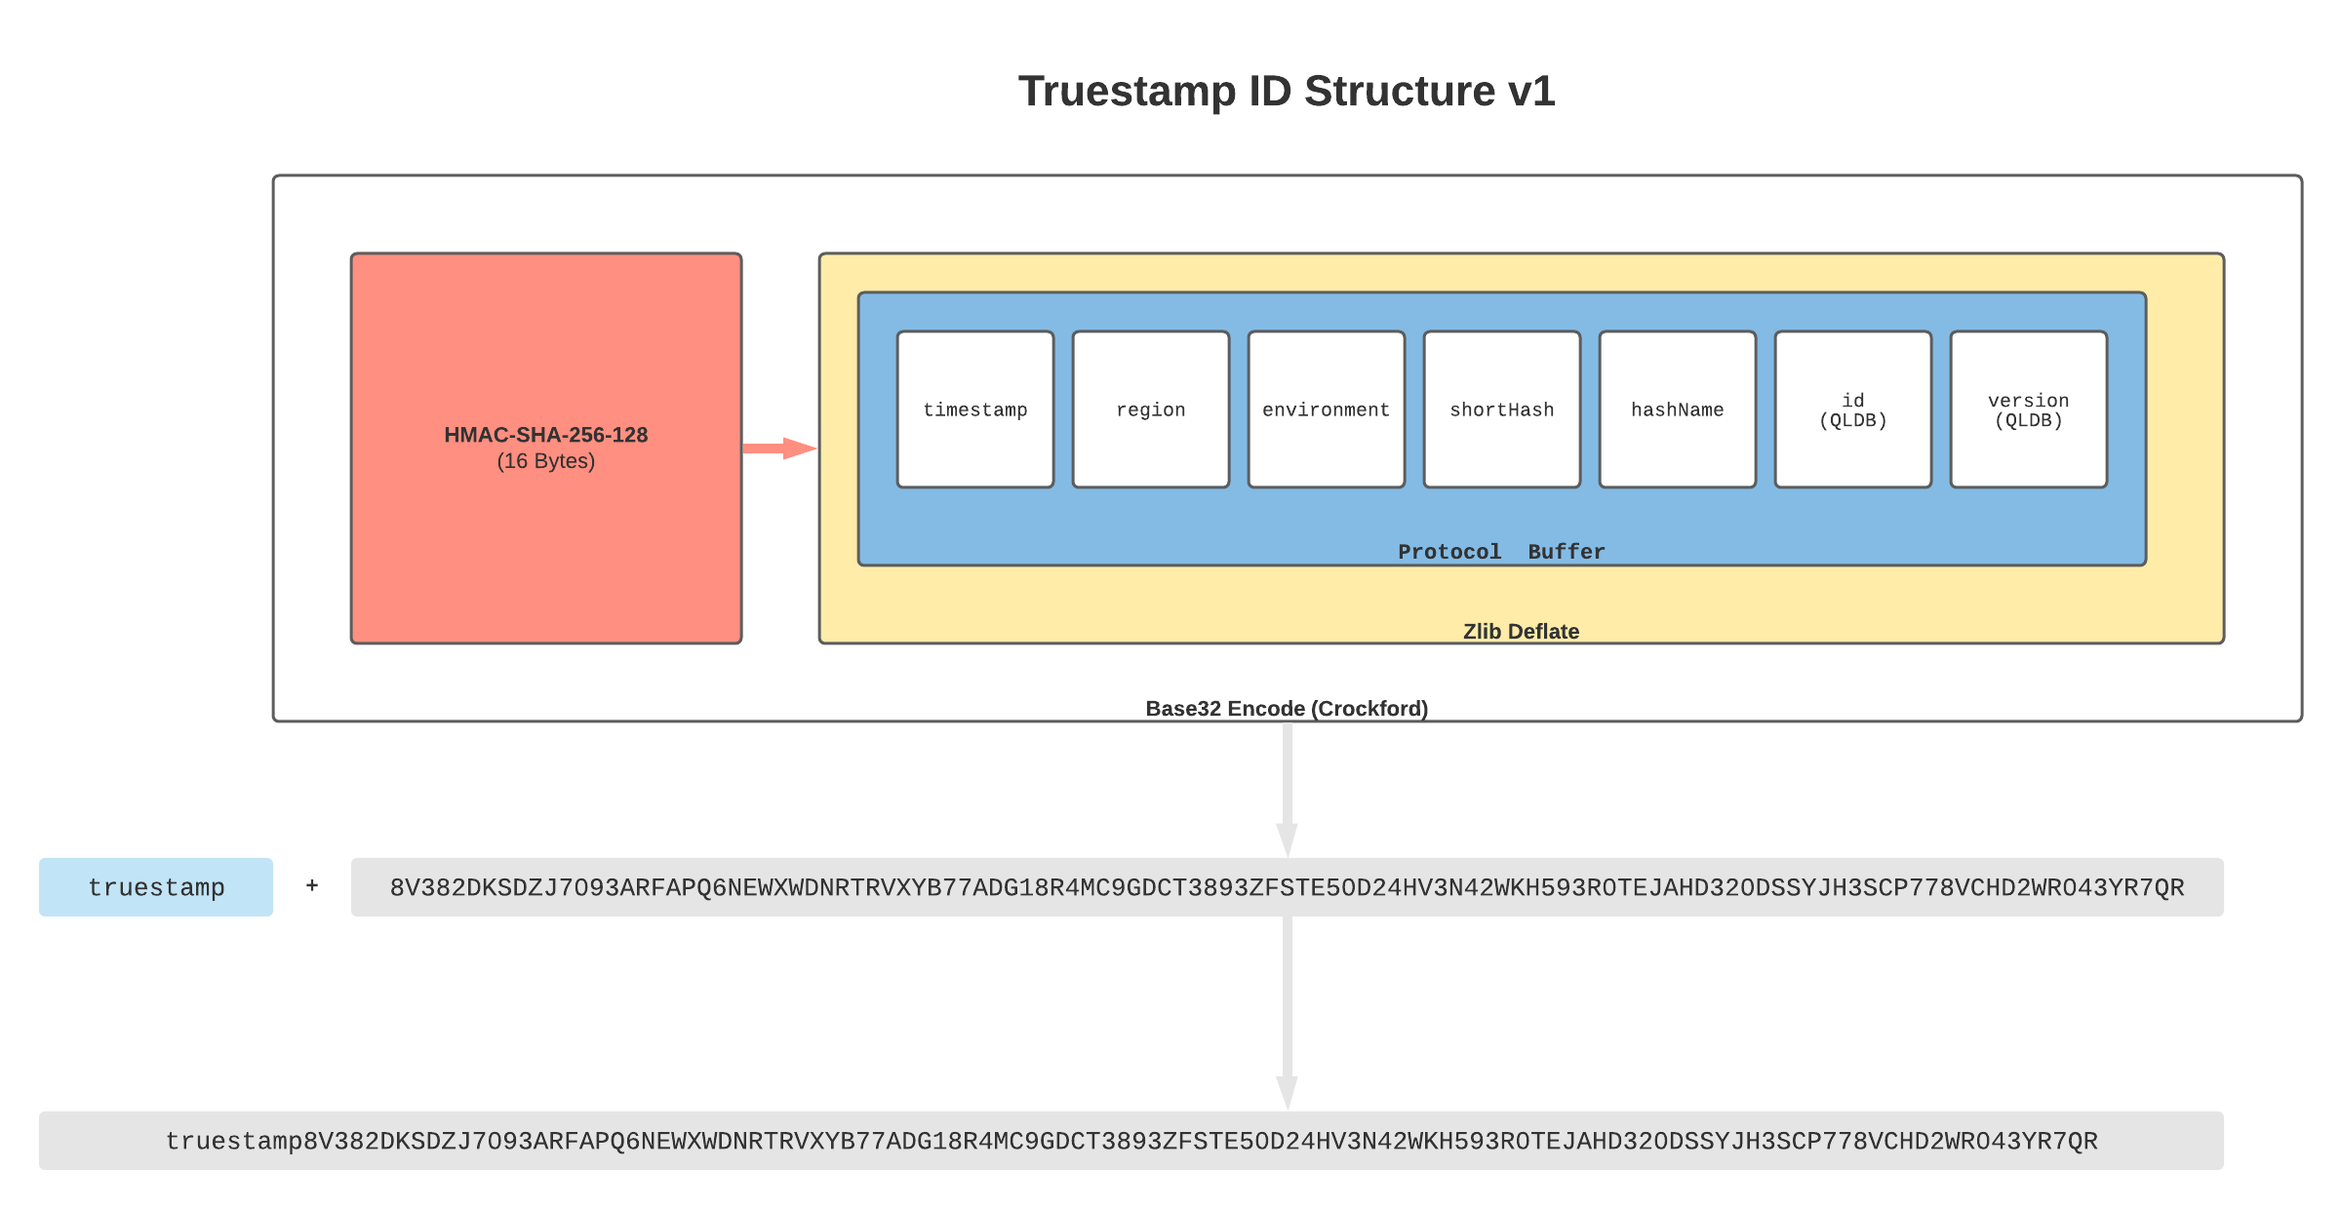
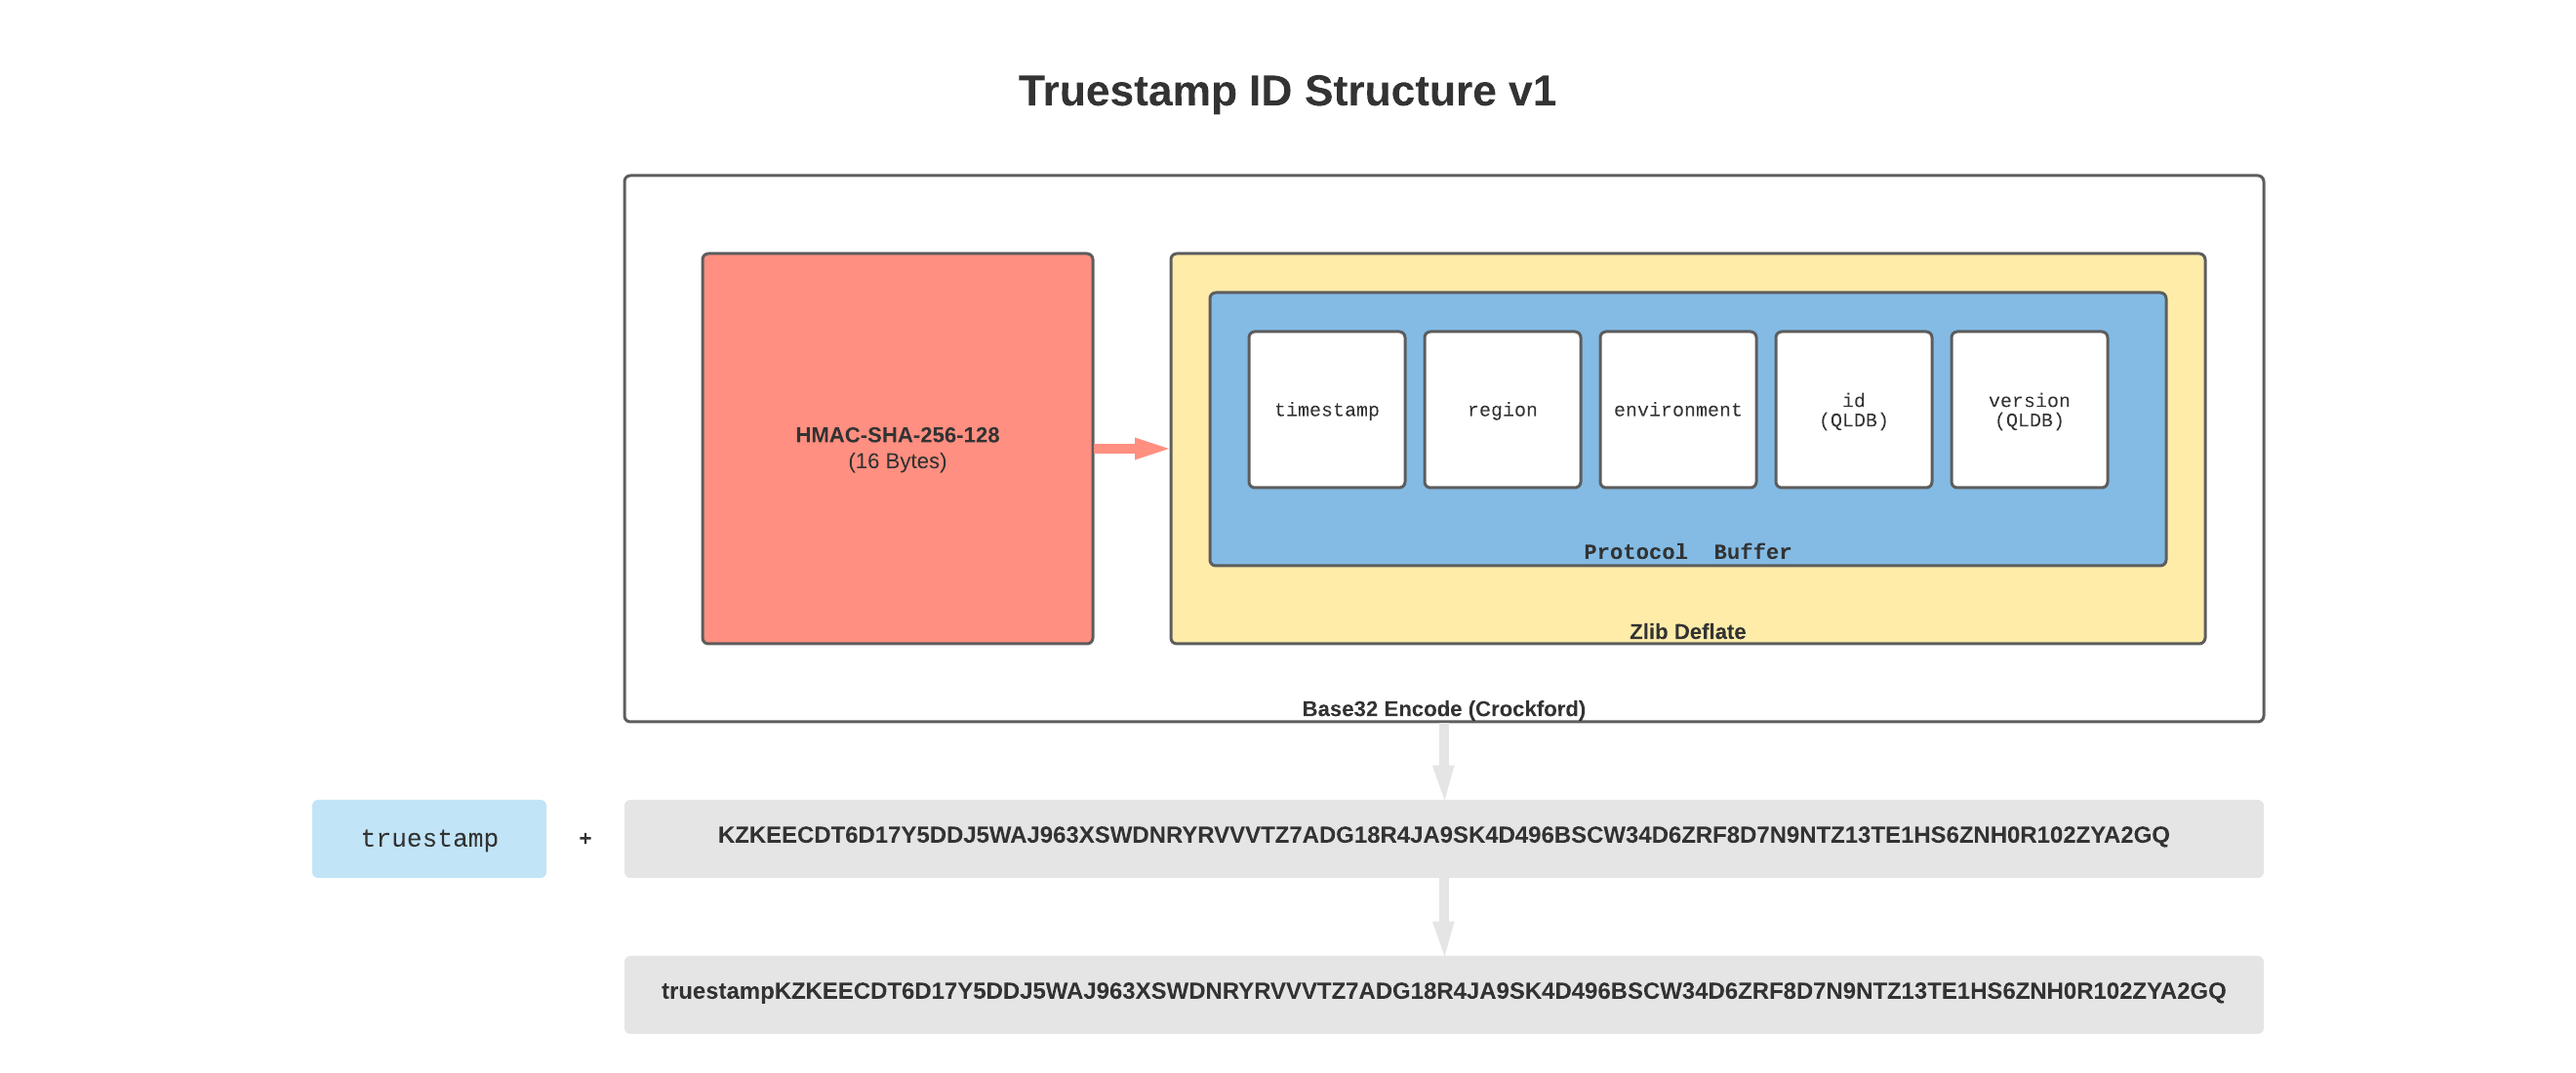
v0.0.3 : Remove shortHash and hashName. No requirement and shortens ID significantly

diff --git a/src/index.test.ts b/src/index.test.ts
@@ -53,8 +53,6 @@ describe("Encoding and decoding", () => {
                 timestamp: Math.floor(new Date().getTime() / 1000),
                 region: regions[randRegionIndex],
                 environment: environments[randEnvIndex],
-                shortHash: randomHex(16),
-                hashName: hashTypes[randHashTypeIndex],
                 id: randomBase62(22),
                 version: randVersion,
             }
@@ -71,16 +69,14 @@ describe("Encoding and decoding", () => {
 describe("Test vector", () => {
     test("decodes to the expected value", async () => {
         const key = fromHexString("deadbeefdeadbeefdeadbeefdeadbeefdeadbeefdeadbeefdeadbeefdeadbeefdeadbeefdeadbeefdeadbeefdeadbeefdeadbeefdeadbeefdeadbeefdeadbeef")
[2 lines of base64/hex data omitted]
 
         const expected = {
-            timestamp: 1626751407,
+            timestamp: 1627359031,
             region: 'us-east-1',
-            environment: 'production',
-            shortHash: '032080886bf3f264',
-            hashName: 'sha3-512',
-            id: 'epcseHP5bZfs07Ly29j72k',
-            version: 418
+            environment: 'staging',
+            id: '294jJ3YUoH1IEEm8GSabOs',
+            version: 0
         }
 
         let decodedIdData = await ts.decodeId(id, key)
@@ -91,7 +87,7 @@ describe("Test vector", () => {
     test("decode fails if invalid key provided", async () => {
         // first byte of key is wrong
         let key = fromHexString("ffadbeefdeadbeefdeadbeefdeadbeefdeadbeefdeadbeefdeadbeefdeadbeefdeadbeefdeadbeefdeadbeefdeadbeefdeadbeefdeadbeefdeadbeefdeadbeef")
[2 lines of base64/hex data omitted]
 
         await expect(async () => {
             await ts.decodeId(id, key)
@@ -108,8 +104,6 @@ describe("Test prefix", () => {
             timestamp: 1626751407,
             region: 'us-east-1',
             environment: 'production',
-            shortHash: '032080886bf3f264',
-            hashName: 'sha3-512',
             id: 'epcseHP5bZfs07Ly29j72k',
             version: 418
         }
@@ -129,8 +123,6 @@ describe("Test prefix", () => {
             timestamp: 1626751407,
             region: 'us-east-1',
             environment: 'production',
-            shortHash: '032080886bf3f264',
-            hashName: 'sha3-512',
             id: 'epcseHP5bZfs07Ly29j72k',
             version: 418
         }
@@ -150,8 +142,6 @@ describe("Test prefix", () => {
             timestamp: 1626751407,
             region: 'us-east-1',
             environment: 'production',
-            shortHash: '032080886bf3f264',
-            hashName: 'sha3-512',
             id: 'epcseHP5bZfs07Ly29j72k',
             version: 418
         }
@@ -175,8 +165,6 @@ describe("encodeId fails when given", () => {
             timestamp: 4000000000,
             region: 'us-east-1',
             environment: 'production',
-            shortHash: '032080886bf3f264',
-            hashName: 'sha3-512',
             id: 'epcseHP5bZfs07Ly29j72k',
             version: 418
         }
@@ -194,8 +182,6 @@ describe("encodeId fails when given", () => {
             timestamp: 1626751407,
             region: 'us-nowhere-1',
             environment: 'production',
-            shortHash: '032080886bf3f264',
-            hashName: 'sha3-512',
             id: 'epcseHP5bZfs07Ly29j72k',
             version: 418
         }
@@ -213,8 +199,6 @@ describe("encodeId fails when given", () => {
             timestamp: 1626751407,
             region: 'us-east-1',
             environment: 'foo',
-            shortHash: '032080886bf3f264',
-            hashName: 'sha3-512',
             id: 'epcseHP5bZfs07Ly29j72k',
             version: 418
         }
@@ -225,62 +209,6 @@ describe("encodeId fails when given", () => {
         }).rejects.toThrow("environment");
     })
 
-    test("invalid shortHash - too short", async () => {
-        const key = fromHexString("deadbeefdeadbeefdeadbeefdeadbeefdeadbeefdeadbeefdeadbeefdeadbeefdeadbeefdeadbeefdeadbeefdeadbeefdeadbeefdeadbeefdeadbeefdeadbeef")
-
-        const idData = {
-            timestamp: 1626751407,
-            region: 'us-east-1',
-            environment: 'production',
-            shortHash: '032080886bf3f2',
-            hashName: 'sha3-512',
-            id: 'epcseHP5bZfs07Ly29j72k',
-            version: 418
-        }
-
-        // no third parameter
-        await expect(async () => {
-            await ts.encodeId(idData, key)
-        }).rejects.toThrow("shortHash/minLength");
-    })
-
-    test("invalid shortHash - too long", async () => {
-        const key = fromHexString("deadbeefdeadbeefdeadbeefdeadbeefdeadbeefdeadbeefdeadbeefdeadbeefdeadbeefdeadbeefdeadbeefdeadbeefdeadbeefdeadbeefdeadbeefdeadbeef")
-
-        const idData = {
-            timestamp: 1626751407,
-            region: 'us-east-1',
-            environment: 'production',
-            shortHash: '032080886bf3f26499',
-            hashName: 'sha3-512',
-            id: 'epcseHP5bZfs07Ly29j72k',
-            version: 418
-        }
-
-        // no third parameter
-        await expect(async () => {
-            await ts.encodeId(idData, key)
-        }).rejects.toThrow("shortHash/maxLength");
-    })
-
-    test("invalid hashName", async () => {
-        const key = fromHexString("deadbeefdeadbeefdeadbeefdeadbeefdeadbeefdeadbeefdeadbeefdeadbeefdeadbeefdeadbeefdeadbeefdeadbeefdeadbeefdeadbeefdeadbeefdeadbeef")
-
-        const idData = {
-            timestamp: 1626751407,
-            region: 'us-east-1',
-            environment: 'production',
-            shortHash: '032080886bf3f264',
-            hashName: 'sha3-999',
-            id: 'epcseHP5bZfs07Ly29j72k',
-            version: 418
-        }
-
-        // no third parameter
-        await expect(async () => {
-            await ts.encodeId(idData, key)
-        }).rejects.toThrow("Unrecognized hash function");
-    })
 
     test("invalid id - too short", async () => {
         const key = fromHexString("deadbeefdeadbeefdeadbeefdeadbeefdeadbeefdeadbeefdeadbeefdeadbeefdeadbeefdeadbeefdeadbeefdeadbeefdeadbeefdeadbeefdeadbeefdeadbeef")
@@ -289,8 +217,6 @@ describe("encodeId fails when given", () => {
             timestamp: 1626751407,
             region: 'us-east-1',
             environment: 'production',
-            shortHash: '032080886bf3f264',
-            hashName: 'sha3-256',
             id: 'epcseHP5bZfs07Ly29j72',
             version: 418
         }
@@ -308,8 +234,6 @@ describe("encodeId fails when given", () => {
             timestamp: 1626751407,
             region: 'us-east-1',
             environment: 'production',
-            shortHash: '032080886bf3f264',
-            hashName: 'sha3-256',
             id: 'epcseHP5bZfs07Ly29j72kZ',
             version: 418
         }
@@ -327,8 +251,6 @@ describe("encodeId fails when given", () => {
             timestamp: 1626751407,
             region: 'us-east-1',
             environment: 'production',
-            shortHash: '032080886bf3f264',
-            hashName: 'sha3-256',
             id: 'epcseHP5bZfs07Ly29j72k',
             version: 999999999999999
         }
@@ -349,8 +271,6 @@ describe("encodeId fails when given", () => {
             timestamp: 1626751407,
             region: 'us-east-1',
             environment: 'production',
-            shortHash: '032080886bf3f264',
-            hashName: 'sha3-512',
             id: 'epcseHP5bZfs07Ly29j72k',
             version: 418
         }
@@ -367,8 +287,6 @@ describe("encodeId fails when given", () => {
             timestamp: 1626751407,
             region: 'us-east-1',
             environment: 'production',
-            shortHash: '032080886bf3f264',
-            hashName: 'sha3-512',
             id: 'epcseHP5bZfs07Ly29j72k',
             version: 418
         }
@@ -386,8 +304,6 @@ describe("encodeId fails when given", () => {
             timestamp: 1626751407,
             region: 'us-east-1',
             environment: 'production',
-            shortHash: '032080886bf3f264',
-            hashName: 'sha3-512',
             id: 'epcseHP5bZfs07Ly29j72k',
             version: 418
         }

diff --git a/src/index.ts b/src/index.ts
@@ -13,9 +13,8 @@ import { Message, Root } from "protobufjs"
 import { zlibSync, unzlibSync } from 'fflate'
 import { verify } from 'tweetnacl'
 import { hmac } from "fast-sha256"
-import { coerceCode, codes, HashCode, HashName } from "multihashes"
 import { base32Encode, base32Decode } from '@ctrl/ts-base32'
-import { hexToArray, arrayToHex, concatArrays } from 'enc-utils'
+import { concatArrays } from 'enc-utils'
 
 import Ajv, { JSONSchemaType } from "ajv"
 const ajv = new Ajv() // options can be passed, e.g. {allErrors: true}
@@ -33,8 +32,6 @@ interface IdDataBase {
 interface IdDataInternal extends IdDataBase {
   region: number
   environment: number
-  shortHashBytes: Uint8Array
-  hashCode: number
 }
 
 // The exported IdData interface represents the public
@@ -42,8 +39,6 @@ interface IdDataInternal extends IdDataBase {
 export interface IdData extends IdDataBase {
   region: string
   environment: string
-  shortHash: string
-  hashName: string
 }
 
 const HMAC_LENGTH = 16 // bytes
@@ -73,21 +68,13 @@ const protoJSON = {
               "type": "Environment",
               "id": 3
             },
-            "shortHashBytes": {
-              "type": "bytes",
-              "id": 4
-            },
-            "hashCode": {
-              "type": "int32",
-              "id": 5
-            },
             "id": {
               "type": "string",
-              "id": 6
+              "id": 4
             },
             "version": {
               "type": "int32",
-              "id": 7
+              "id": 5
             }
           },
           "nested": {
@@ -125,19 +112,6 @@ const schema: JSONSchemaType<IdData> = {
       type: "string",
       enum: ["development", "staging", "production"],
     },
-    shortHash: {
-      type: "string",
-      minLength: 16,
-      maxLength: 16,
-      pattern: "^[a-fA-F0-9]+$",
-    },
-    hashName: {
-      type: "string",
-      minLength: 3,
-      maxLength: 32,
-      pattern: "^[a-zA-Z0-9-]+$",
-      nullable: true,
-    },
     id: {
       type: "string",
       minLength: 22,
@@ -150,8 +124,6 @@ const schema: JSONSchemaType<IdData> = {
     "timestamp",
     "region",
     "environment",
-    "shortHash",
-    "hashName",
     "id",
     "version",
   ],
@@ -201,8 +173,6 @@ const transformIdDataIntoMessage = async (data: IdData): Promise<Message<{}>> =>
     timestamp: data.timestamp,
     region: region,
     environment: environment,
-    shortHashBytes: hexToArray(data.shortHash),
-    hashCode: coerceCode(data.hashName as HashName),
     id: data.id,
     version: data.version,
   }
@@ -257,8 +227,6 @@ const transformMessageIntoIdData = async (msg: Message<{}>): Promise<IdData> => 
     timestamp: obj.timestamp,
     region: region,
     environment: environment,
-    shortHash: arrayToHex(obj.shortHashBytes),
-    hashName: codes[(obj.hashCode as HashCode)],
     id: obj.id,
     version: obj.version,
   }

diff --git a/examples/node/index.js b/examples/node/index.js
@@ -13,8 +13,6 @@ async function run() {
         timestamp: Math.floor(new Date().getTime() / 1000),
         region: "us-east-1",
         environment: "staging",
-        shortHash: "deadbeefdeadbeef",
-        hashName: "sha2-256",
         id: "294jJ3YUoH1IEEm8GSabOs",
         version: 0,
     }
